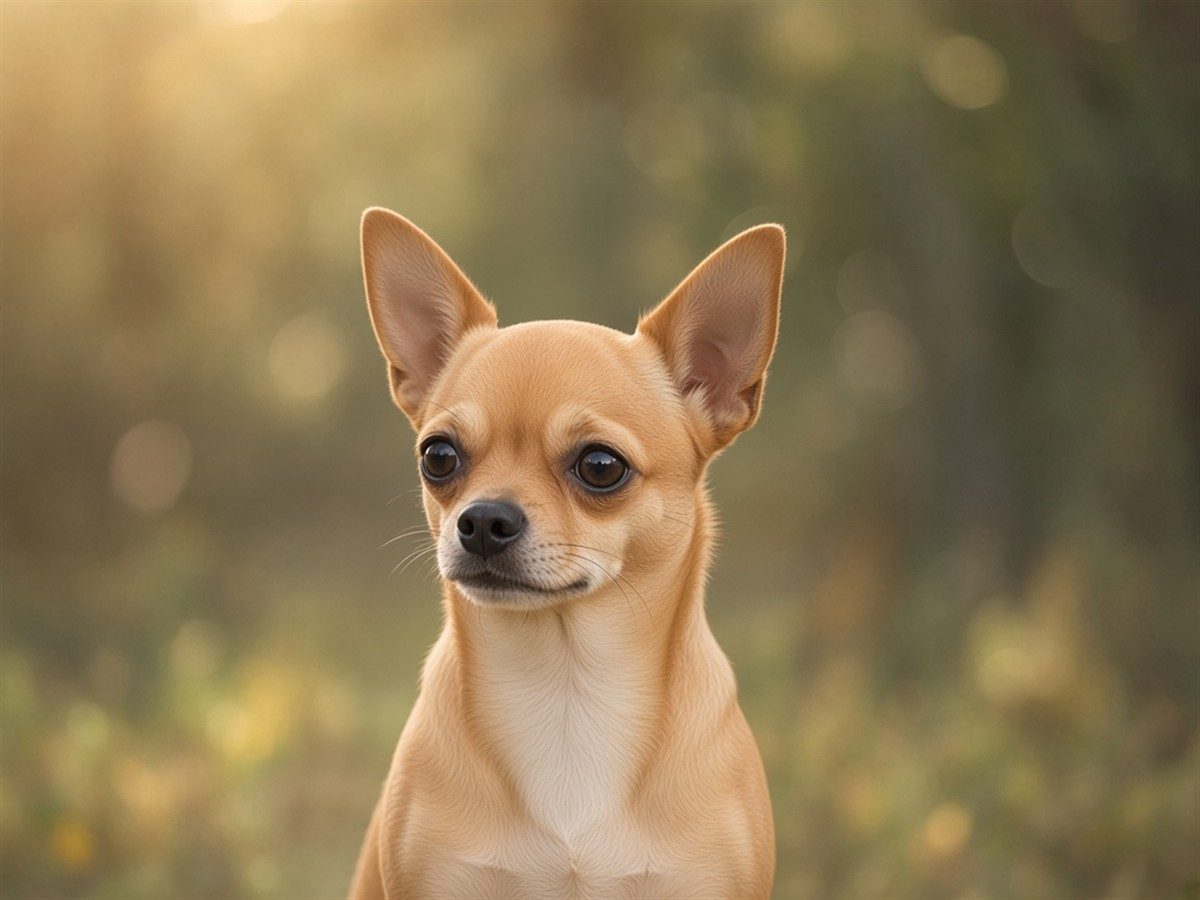
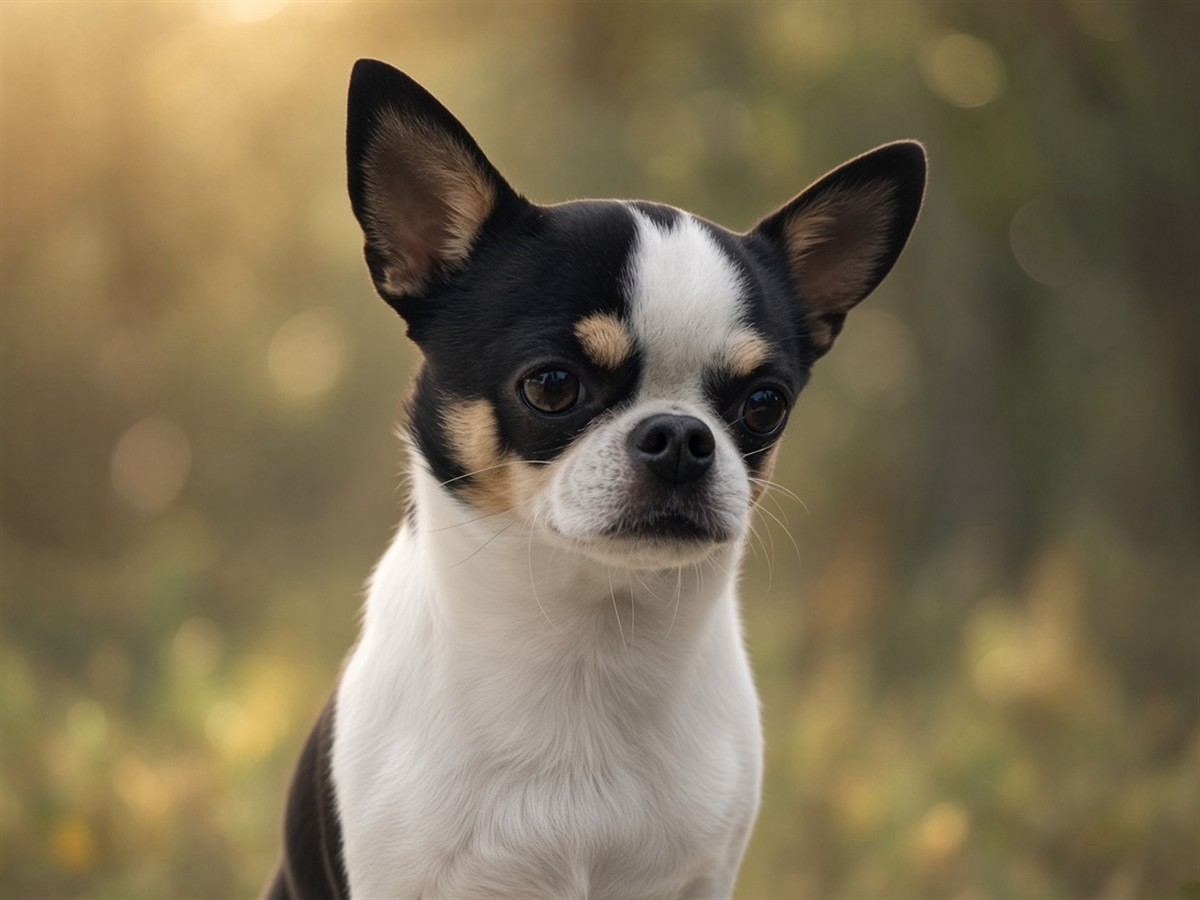
Update Dog Breed Images for 'Čivava' and Increment Sync Generation Version
- Updated image versions for 'Čivava' and 'Čivava krátkosrstá' to ensure the latest visuals are displayed.
- Incremented the breed image sync generation version to 32 for proper cache handling of the updated images.

Changed region(s): [[0.2158, 0.0622, 0.7708, 1.0]]

diff --git a/src/lib/petBreedImages.ts b/src/lib/petBreedImages.ts
@@ -7,7 +7,7 @@ import { petPlaceholderImages } from './petTypes'
  * Bump when replacing files under public/breeds/ so pets + browser pick up new JPGs
  * without a manual hard refresh (appends `&r=N` to local breed URLs).
  */
-export const BREED_IMAGE_SYNC_GENERATION = 31
+export const BREED_IMAGE_SYNC_GENERATION = 32
 
 function withBreedSyncRevision(url: string): string {
   if (!url.startsWith('/breeds/')) return url
@@ -123,9 +123,9 @@ export const DOG_BREED_IMAGES: Record<string, string> = {
   'Český strakatý pes': '/breeds/cesky-strakaty-pes.jpg?v=2',
   'Český teriér': '/breeds/cesky-terier.jpg?v=1',
   'Čínský chocholatý pes': '/breeds/cinsky-chocholaty-pes.jpg?v=1',
-  'Čivava': '/breeds/civava-kratkosrsta.jpg?v=1',
+  'Čivava': '/breeds/civava-kratkosrsta.jpg?v=2',
   'Čivava dlouhosrstá': '/breeds/civava-dlouhosrsta.jpg?v=1',
-  'Čivava krátkosrstá': '/breeds/civava-kratkosrsta.jpg?v=1',
+  'Čivava krátkosrstá': '/breeds/civava-kratkosrsta.jpg?v=2',
   'Dalmatin': '/breeds/dalmatin.jpg?v=1',
   'Dandie Dinmont terier': 'https://images.dog.ceo/breeds/terrier-dandie/n02096437_1678.jpg',
   'Dánská doga': 'https://images.dog.ceo/breeds/dane-great/n02109047_31830.jpg',
